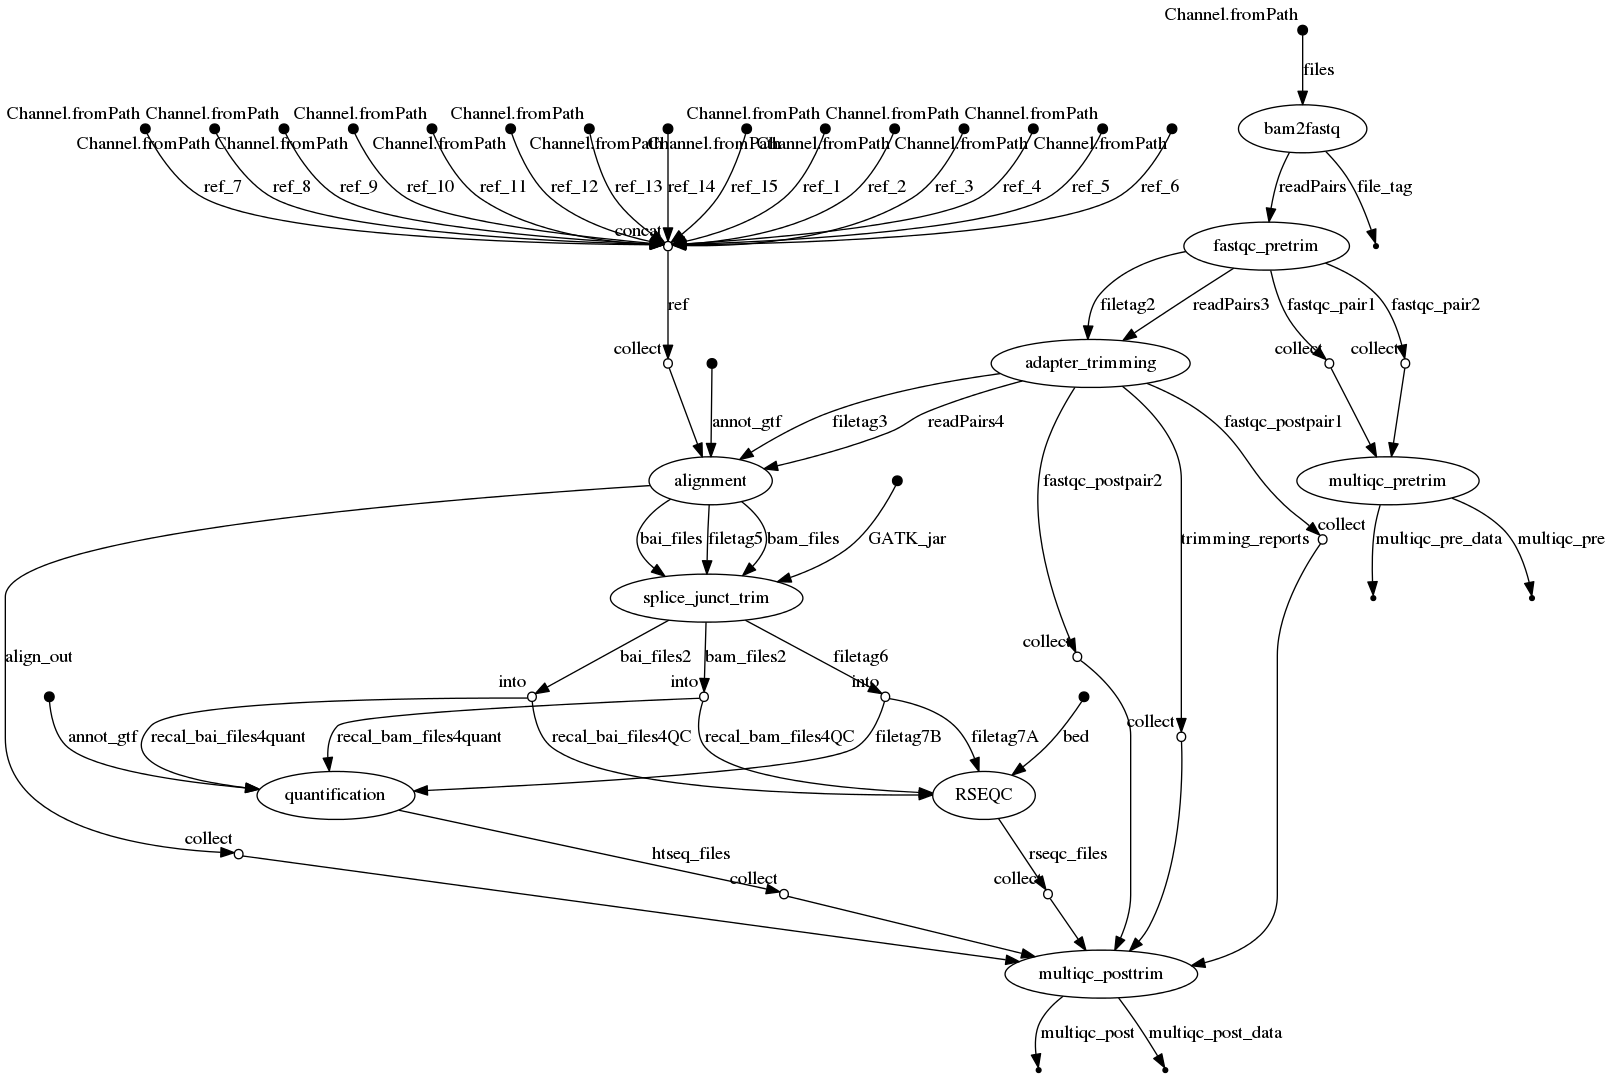
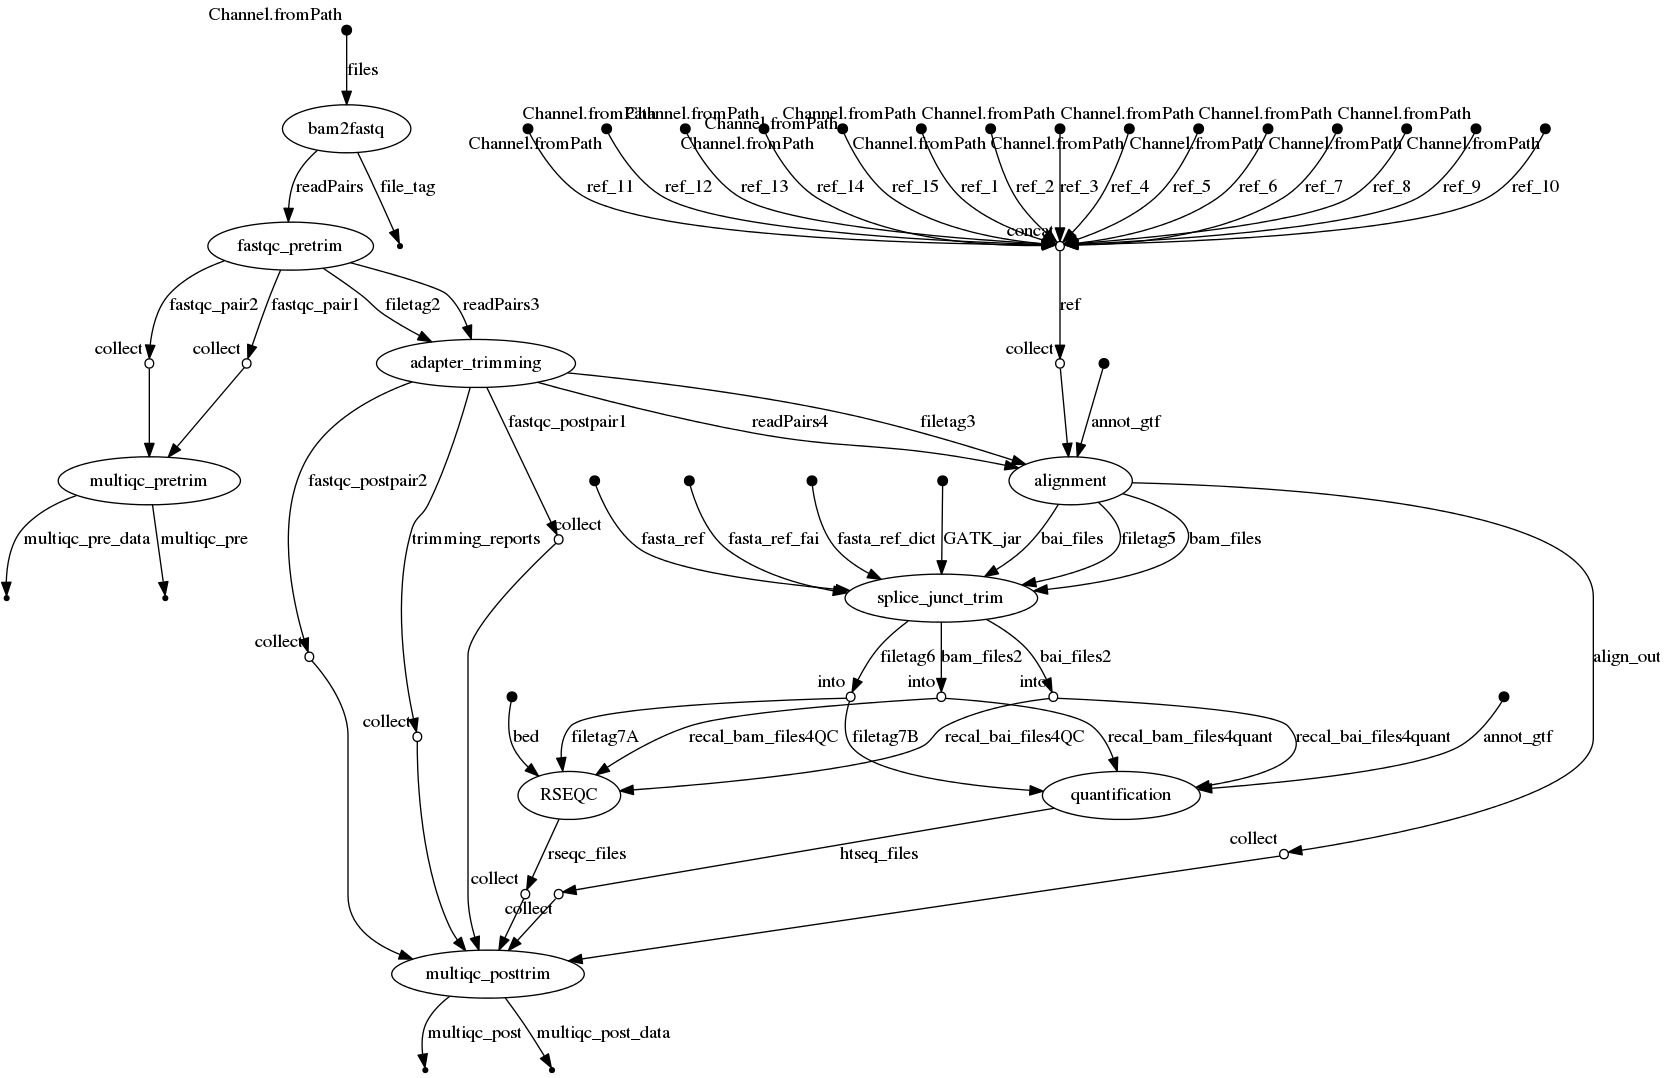
Generated DAG [skip ci]

diff --git a/dag_STAR_sjtrim.html b/dag_STAR_sjtrim.html
@@ -134,28 +134,31 @@ nodes: [
 { data: { id: 'p22'}, classes: 'ORIGIN' },
 { data: { id: 'p23', label: 'alignment'}, classes: 'PROCESS' },
 { data: { id: 'p24'}, classes: 'ORIGIN' },
-{ data: { id: 'p25', label: 'splice_junct_trim'}, classes: 'PROCESS' },
-{ data: { id: 'p26', label: 'into'}, classes: 'OPERATOR' },
-{ data: { id: 'p27', label: 'into'}, classes: 'OPERATOR' },
-{ data: { id: 'p28', label: 'into'}, classes: 'OPERATOR' },
-{ data: { id: 'p29'}, classes: 'ORIGIN' },
-{ data: { id: 'p30', label: 'RSEQC'}, classes: 'PROCESS' },
-{ data: { id: 'p31'}, classes: 'ORIGIN' },
-{ data: { id: 'p32', label: 'quantification'}, classes: 'PROCESS' },
-{ data: { id: 'p33', label: 'collect'}, classes: 'OPERATOR' },
-{ data: { id: 'p34', label: 'collect'}, classes: 'OPERATOR' },
-{ data: { id: 'p35', label: 'multiqc_pretrim'}, classes: 'PROCESS' },
-{ data: { id: 'p36'}, classes: 'NODE' },
-{ data: { id: 'p37'}, classes: 'NODE' },
-{ data: { id: 'p38', label: 'collect'}, classes: 'OPERATOR' },
-{ data: { id: 'p39', label: 'collect'}, classes: 'OPERATOR' },
-{ data: { id: 'p40', label: 'collect'}, classes: 'OPERATOR' },
+{ data: { id: 'p25'}, classes: 'ORIGIN' },
+{ data: { id: 'p26'}, classes: 'ORIGIN' },
+{ data: { id: 'p27'}, classes: 'ORIGIN' },
+{ data: { id: 'p28', label: 'splice_junct_trim'}, classes: 'PROCESS' },
+{ data: { id: 'p29', label: 'into'}, classes: 'OPERATOR' },
+{ data: { id: 'p30', label: 'into'}, classes: 'OPERATOR' },
+{ data: { id: 'p31', label: 'into'}, classes: 'OPERATOR' },
+{ data: { id: 'p32'}, classes: 'ORIGIN' },
+{ data: { id: 'p33', label: 'RSEQC'}, classes: 'PROCESS' },
+{ data: { id: 'p34'}, classes: 'ORIGIN' },
+{ data: { id: 'p35', label: 'quantification'}, classes: 'PROCESS' },
+{ data: { id: 'p36', label: 'collect'}, classes: 'OPERATOR' },
+{ data: { id: 'p37', label: 'collect'}, classes: 'OPERATOR' },
+{ data: { id: 'p38', label: 'multiqc_pretrim'}, classes: 'PROCESS' },
+{ data: { id: 'p39'}, classes: 'NODE' },
+{ data: { id: 'p40'}, classes: 'NODE' },
 { data: { id: 'p41', label: 'collect'}, classes: 'OPERATOR' },
 { data: { id: 'p42', label: 'collect'}, classes: 'OPERATOR' },
 { data: { id: 'p43', label: 'collect'}, classes: 'OPERATOR' },
-{ data: { id: 'p44', label: 'multiqc_posttrim'}, classes: 'PROCESS' },
-{ data: { id: 'p45'}, classes: 'NODE' },
-{ data: { id: 'p46'}, classes: 'NODE' },
+{ data: { id: 'p44', label: 'collect'}, classes: 'OPERATOR' },
+{ data: { id: 'p45', label: 'collect'}, classes: 'OPERATOR' },
+{ data: { id: 'p46', label: 'collect'}, classes: 'OPERATOR' },
+{ data: { id: 'p47', label: 'multiqc_posttrim'}, classes: 'PROCESS' },
+{ data: { id: 'p48'}, classes: 'NODE' },
+{ data: { id: 'p49'}, classes: 'NODE' },
 ],
 edges: [
 { data: { source: 'p0', target: 'p15', label: 'ref_1' } },
@@ -177,47 +180,50 @@ edges: [
 { data: { source: 'p16', target: 'p17', label: 'files' } },
 { data: { source: 'p17', target: 'p18', label: 'file_tag' } },
 { data: { source: 'p17', target: 'p19', label: 'readPairs' } },
-{ data: { source: 'p19', target: 'p33', label: 'fastqc_pair1' } },
-{ data: { source: 'p19', target: 'p34', label: 'fastqc_pair2' } },
+{ data: { source: 'p19', target: 'p36', label: 'fastqc_pair1' } },
+{ data: { source: 'p19', target: 'p37', label: 'fastqc_pair2' } },
 { data: { source: 'p19', target: 'p20', label: 'readPairs3' } },
 { data: { source: 'p19', target: 'p20', label: 'filetag2' } },
 { data: { source: 'p20', target: 'p23', label: 'filetag3' } },
 { data: { source: 'p20', target: 'p23', label: 'readPairs4' } },
-{ data: { source: 'p20', target: 'p38', label: 'fastqc_postpair1' } },
-{ data: { source: 'p20', target: 'p39', label: 'fastqc_postpair2' } },
-{ data: { source: 'p20', target: 'p43', label: 'trimming_reports' } },
+{ data: { source: 'p20', target: 'p41', label: 'fastqc_postpair1' } },
+{ data: { source: 'p20', target: 'p42', label: 'fastqc_postpair2' } },
+{ data: { source: 'p20', target: 'p46', label: 'trimming_reports' } },
 { data: { source: 'p21', target: 'p23'} },
 { data: { source: 'p22', target: 'p23', label: 'annot_gtf' } },
-{ data: { source: 'p23', target: 'p25', label: 'filetag5' } },
-{ data: { source: 'p23', target: 'p25', label: 'bam_files' } },
-{ data: { source: 'p23', target: 'p25', label: 'bai_files' } },
-{ data: { source: 'p23', target: 'p40', label: 'align_out' } },
-{ data: { source: 'p24', target: 'p25', label: 'GATK_jar' } },
-{ data: { source: 'p25', target: 'p28', label: 'filetag6' } },
-{ data: { source: 'p25', target: 'p26', label: 'bam_files2' } },
-{ data: { source: 'p25', target: 'p27', label: 'bai_files2' } },
-{ data: { source: 'p26', target: 'p30', label: 'recal_bam_files4QC' } },
-{ data: { source: 'p26', target: 'p32', label: 'recal_bam_files4quant' } },
-{ data: { source: 'p27', target: 'p30', label: 'recal_bai_files4QC' } },
-{ data: { source: 'p27', target: 'p32', label: 'recal_bai_files4quant' } },
-{ data: { source: 'p28', target: 'p30', label: 'filetag7A' } },
-{ data: { source: 'p28', target: 'p32', label: 'filetag7B' } },
-{ data: { source: 'p29', target: 'p30', label: 'bed' } },
-{ data: { source: 'p30', target: 'p42', label: 'rseqc_files' } },
-{ data: { source: 'p31', target: 'p32', label: 'annot_gtf' } },
-{ data: { source: 'p32', target: 'p41', label: 'htseq_files' } },
-{ data: { source: 'p33', target: 'p35'} },
-{ data: { source: 'p34', target: 'p35'} },
-{ data: { source: 'p35', target: 'p37', label: 'multiqc_pre' } },
-{ data: { source: 'p35', target: 'p36', label: 'multiqc_pre_data' } },
-{ data: { source: 'p38', target: 'p44'} },
-{ data: { source: 'p39', target: 'p44'} },
-{ data: { source: 'p40', target: 'p44'} },
-{ data: { source: 'p41', target: 'p44'} },
-{ data: { source: 'p42', target: 'p44'} },
-{ data: { source: 'p43', target: 'p44'} },
-{ data: { source: 'p44', target: 'p46', label: 'multiqc_post' } },
-{ data: { source: 'p44', target: 'p45', label: 'multiqc_post_data' } },
+{ data: { source: 'p23', target: 'p28', label: 'filetag5' } },
+{ data: { source: 'p23', target: 'p28', label: 'bam_files' } },
+{ data: { source: 'p23', target: 'p28', label: 'bai_files' } },
+{ data: { source: 'p23', target: 'p43', label: 'align_out' } },
+{ data: { source: 'p24', target: 'p28', label: 'fasta_ref' } },
+{ data: { source: 'p25', target: 'p28', label: 'fasta_ref_fai' } },
+{ data: { source: 'p26', target: 'p28', label: 'fasta_ref_dict' } },
+{ data: { source: 'p27', target: 'p28', label: 'GATK_jar' } },
+{ data: { source: 'p28', target: 'p31', label: 'filetag6' } },
+{ data: { source: 'p28', target: 'p29', label: 'bam_files2' } },
+{ data: { source: 'p28', target: 'p30', label: 'bai_files2' } },
+{ data: { source: 'p29', target: 'p33', label: 'recal_bam_files4QC' } },
+{ data: { source: 'p29', target: 'p35', label: 'recal_bam_files4quant' } },
+{ data: { source: 'p30', target: 'p33', label: 'recal_bai_files4QC' } },
+{ data: { source: 'p30', target: 'p35', label: 'recal_bai_files4quant' } },
+{ data: { source: 'p31', target: 'p33', label: 'filetag7A' } },
+{ data: { source: 'p31', target: 'p35', label: 'filetag7B' } },
+{ data: { source: 'p32', target: 'p33', label: 'bed' } },
+{ data: { source: 'p33', target: 'p45', label: 'rseqc_files' } },
+{ data: { source: 'p34', target: 'p35', label: 'annot_gtf' } },
+{ data: { source: 'p35', target: 'p44', label: 'htseq_files' } },
+{ data: { source: 'p36', target: 'p38'} },
+{ data: { source: 'p37', target: 'p38'} },
+{ data: { source: 'p38', target: 'p40', label: 'multiqc_pre' } },
+{ data: { source: 'p38', target: 'p39', label: 'multiqc_pre_data' } },
+{ data: { source: 'p41', target: 'p47'} },
+{ data: { source: 'p42', target: 'p47'} },
+{ data: { source: 'p43', target: 'p47'} },
+{ data: { source: 'p44', target: 'p47'} },
+{ data: { source: 'p45', target: 'p47'} },
+{ data: { source: 'p46', target: 'p47'} },
+{ data: { source: 'p47', target: 'p49', label: 'multiqc_post' } },
+{ data: { source: 'p47', target: 'p48', label: 'multiqc_post_data' } },
 ],
 },
 
